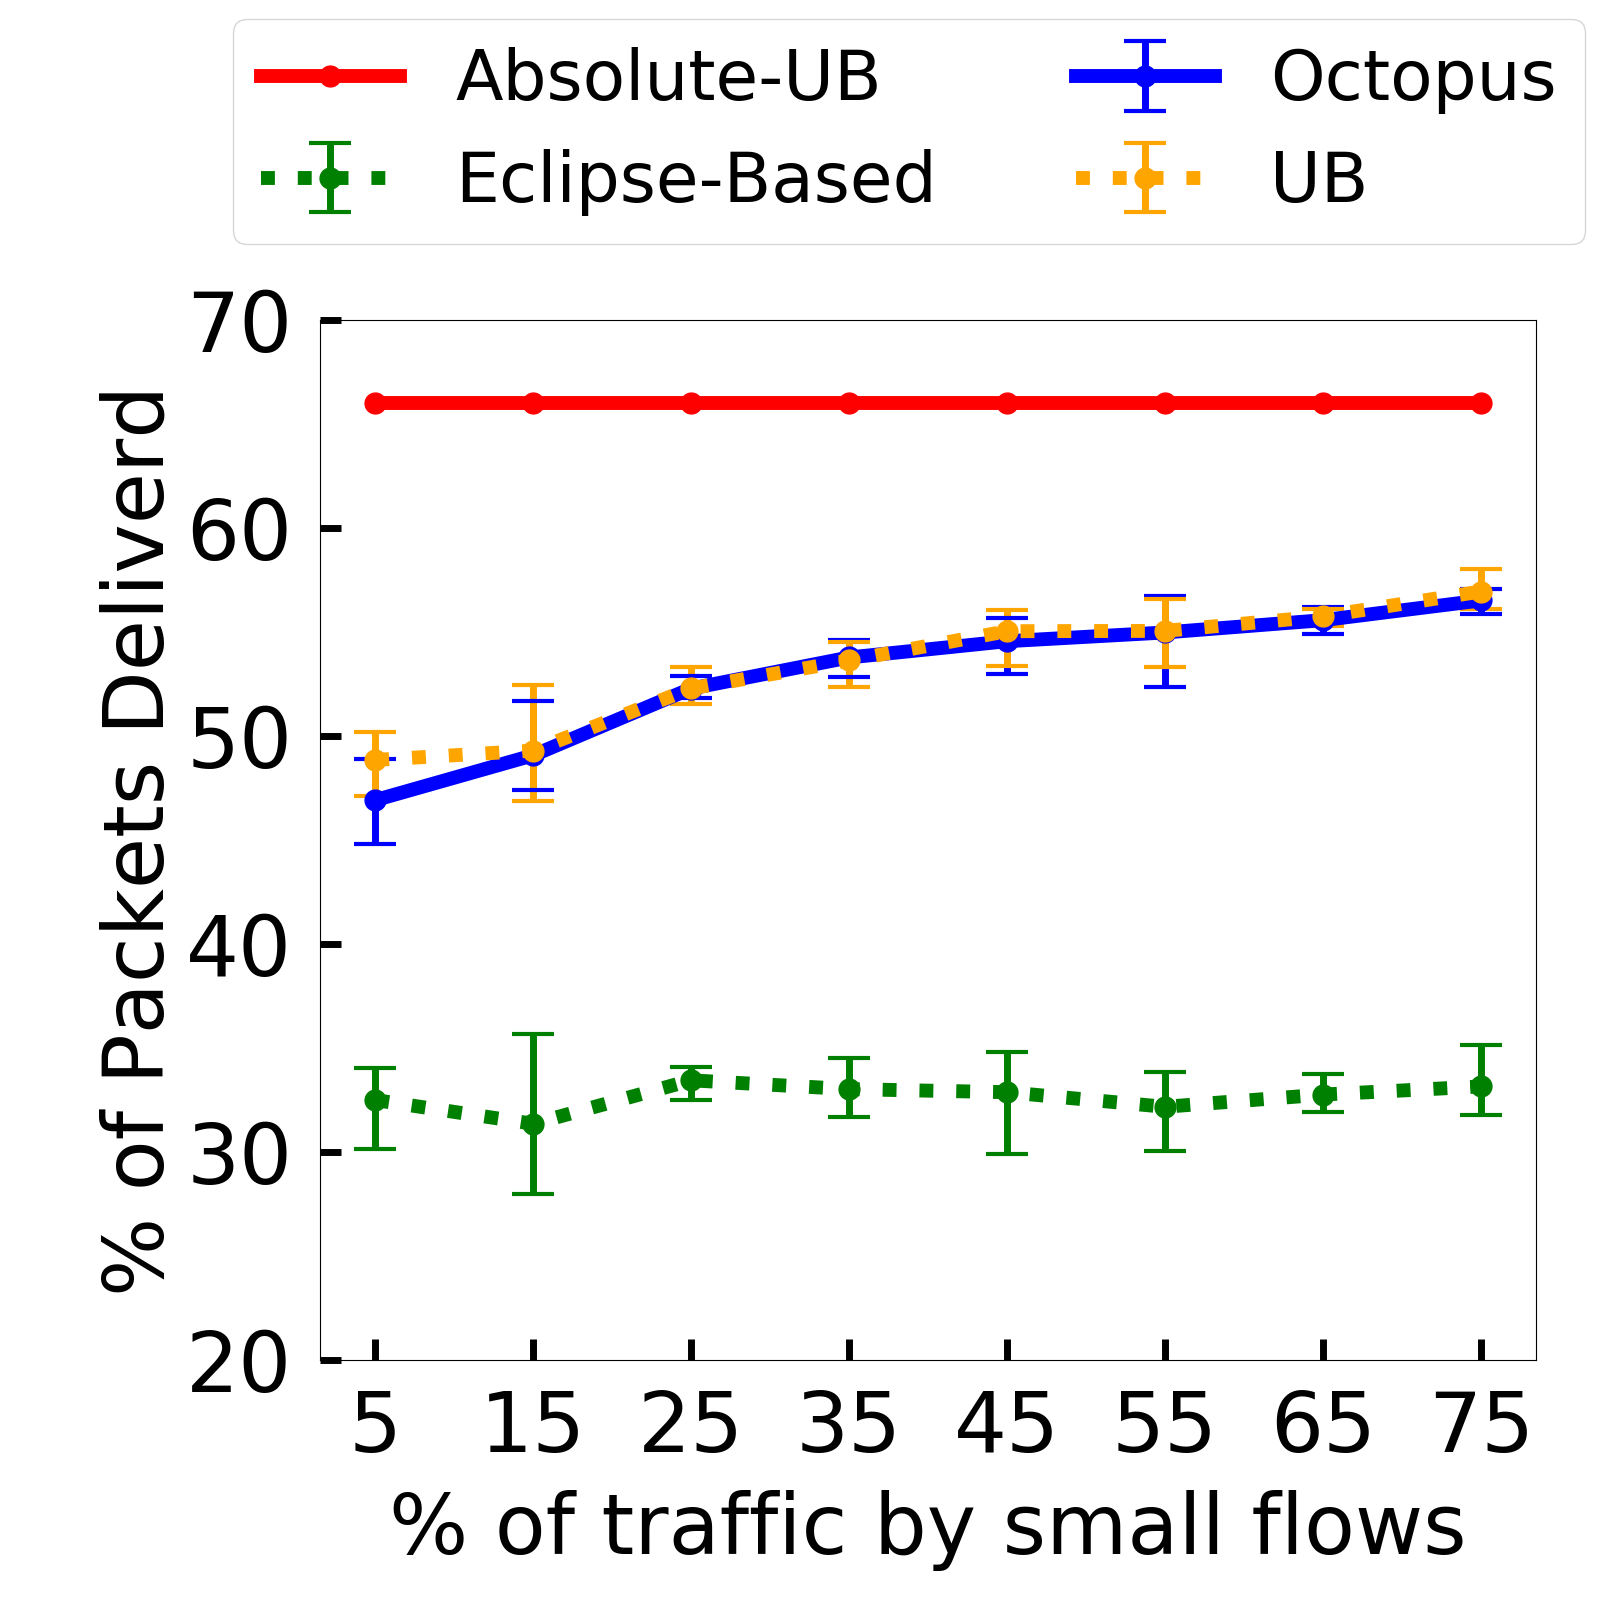
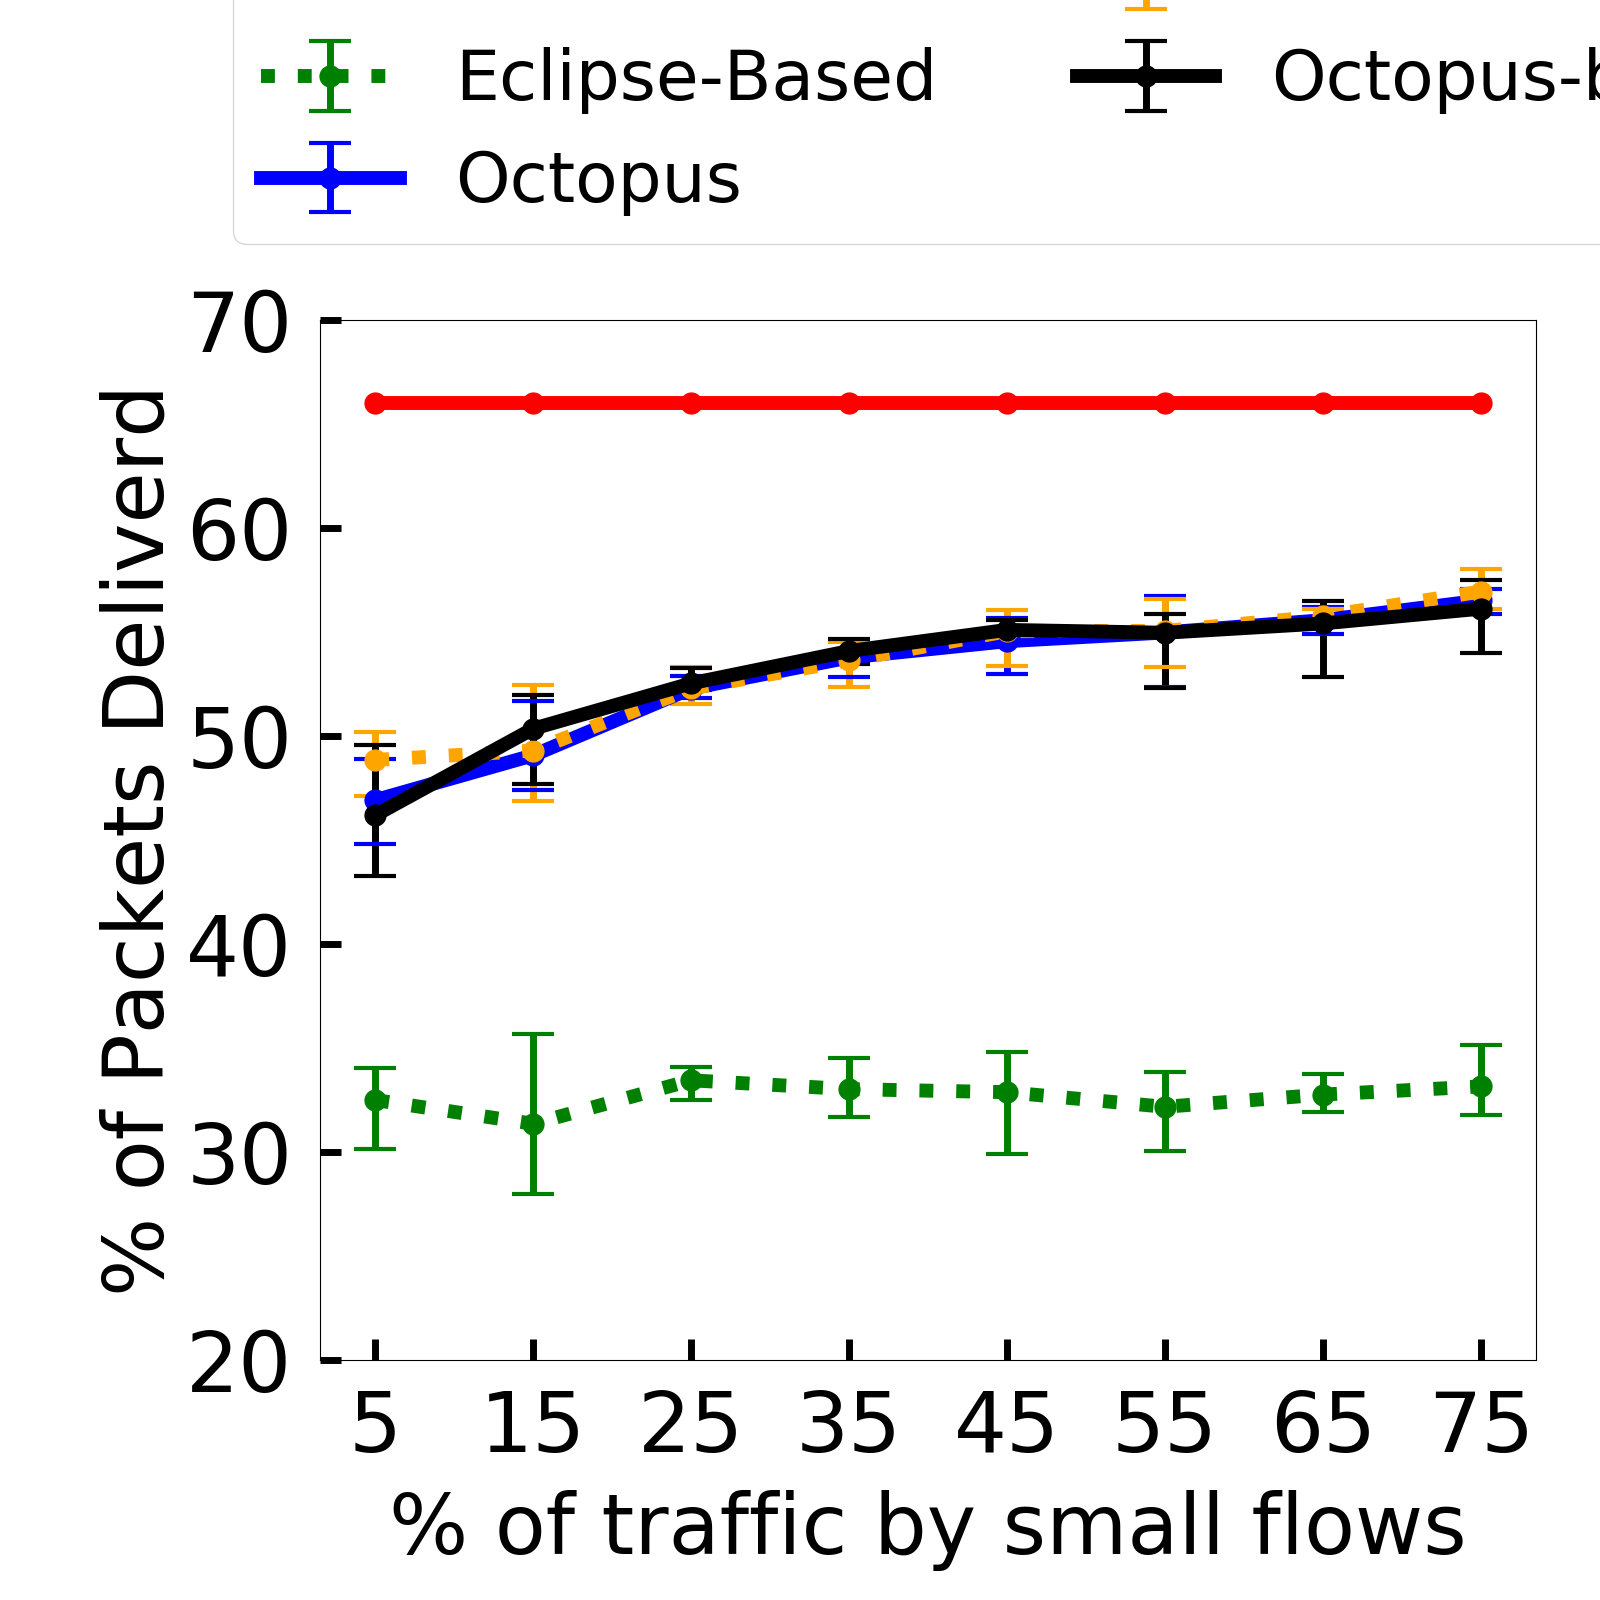
update plots

diff --git a/plots.py b/plots.py
@@ -180,7 +180,7 @@ def plot1_1(path):
 	data = runner.readDataFromFile(filename.format(path))
 
 	methods  = ['eclipse'      , 'octopus-r', 'upper-bound', 'octopus-b']
-	methods_ = ['Eclipse-Based', 'Octopus',   'UB', 'Octopus-b']
+	methods_ = ['Eclipse-Based', 'Octopus',   'UB',          'Octopus-b']
 	metric   = ['percent_packets_delivered', 'link_utilization']
 	metric_  = ['% of Packets Deliverd',     'Link Utilization (%)']
 
@@ -205,8 +205,8 @@ def plot1_2(path):
 	filename = '{}/reconfig_delta.txt'
 	data = runner.readDataFromFile(filename.format(path))
 
-	methods  = ['eclipse'      , 'octopus-r', 'upper-bound']
-	methods_ = ['Eclipse-Based', 'Octopus',   'UB']
+	methods  = ['eclipse'      , 'octopus-r', 'upper-bound', 'octopus-b']
+	methods_ = ['Eclipse-Based', 'Octopus',   'UB',          'Octopus-b']
 	metric   = ['percent_packets_delivered', 'link_utilization']
 	metric_  = ['% of Packets Deliverd',     'Link Utilization (%)']
 
@@ -231,8 +231,8 @@ def plot1_3(path):
 	filename = '{}/skewness.txt'
 	data = runner.readDataFromFile(filename.format(path))
 
-	methods  = ['eclipse'      , 'octopus-r', 'upper-bound']
-	methods_ = ['Eclipse-Based', 'Octopus',   'UB']
+	methods  = ['eclipse'      , 'octopus-r', 'upper-bound', 'octopus-b']
+	methods_ = ['Eclipse-Based', 'Octopus',   'UB',          'Octopus-b']
 	metric   = ['percent_packets_delivered', 'link_utilization']
 	metric_  = ['% of Packets Deliverd',     'Link Utilization (%)']
 
@@ -256,8 +256,8 @@ def plot1_4(path):
 	filename = '{}/sparsity.txt'
 	data = runner.readDataFromFile(filename.format(path))
 
-	methods  = ['eclipse'      , 'octopus-r', 'upper-bound']
-	methods_ = ['Eclipse-Based', 'Octopus',   'UB']
+	methods  = ['eclipse'      , 'octopus-r', 'upper-bound', 'octopus-b']
+	methods_ = ['Eclipse-Based', 'Octopus',   'UB',          'Octopus-b']
 	metric   = ['percent_packets_delivered', 'link_utilization']
 	metric_  = ['% of Packets Deliverd',     'Link Utilization (%)']
 
@@ -474,10 +474,10 @@ if __name__ == '__main__':
 
 	path = 'data/6-23'
 
-	plot1_1(path)  # num of nodes
+	# plot1_1(path)  # num of nodes
 	# plot1_2(path)  # reconfig delta
 	# plot1_3(path)  # skewness
-	# plot1_4(path)  # sparsity
+	plot1_4(path)  # sparsity
 	# plot2_1(path)    # real traffic
 	# plot2_2(path)    # real traffic
 	# plot3(path)    # reconfig delta + objective value
